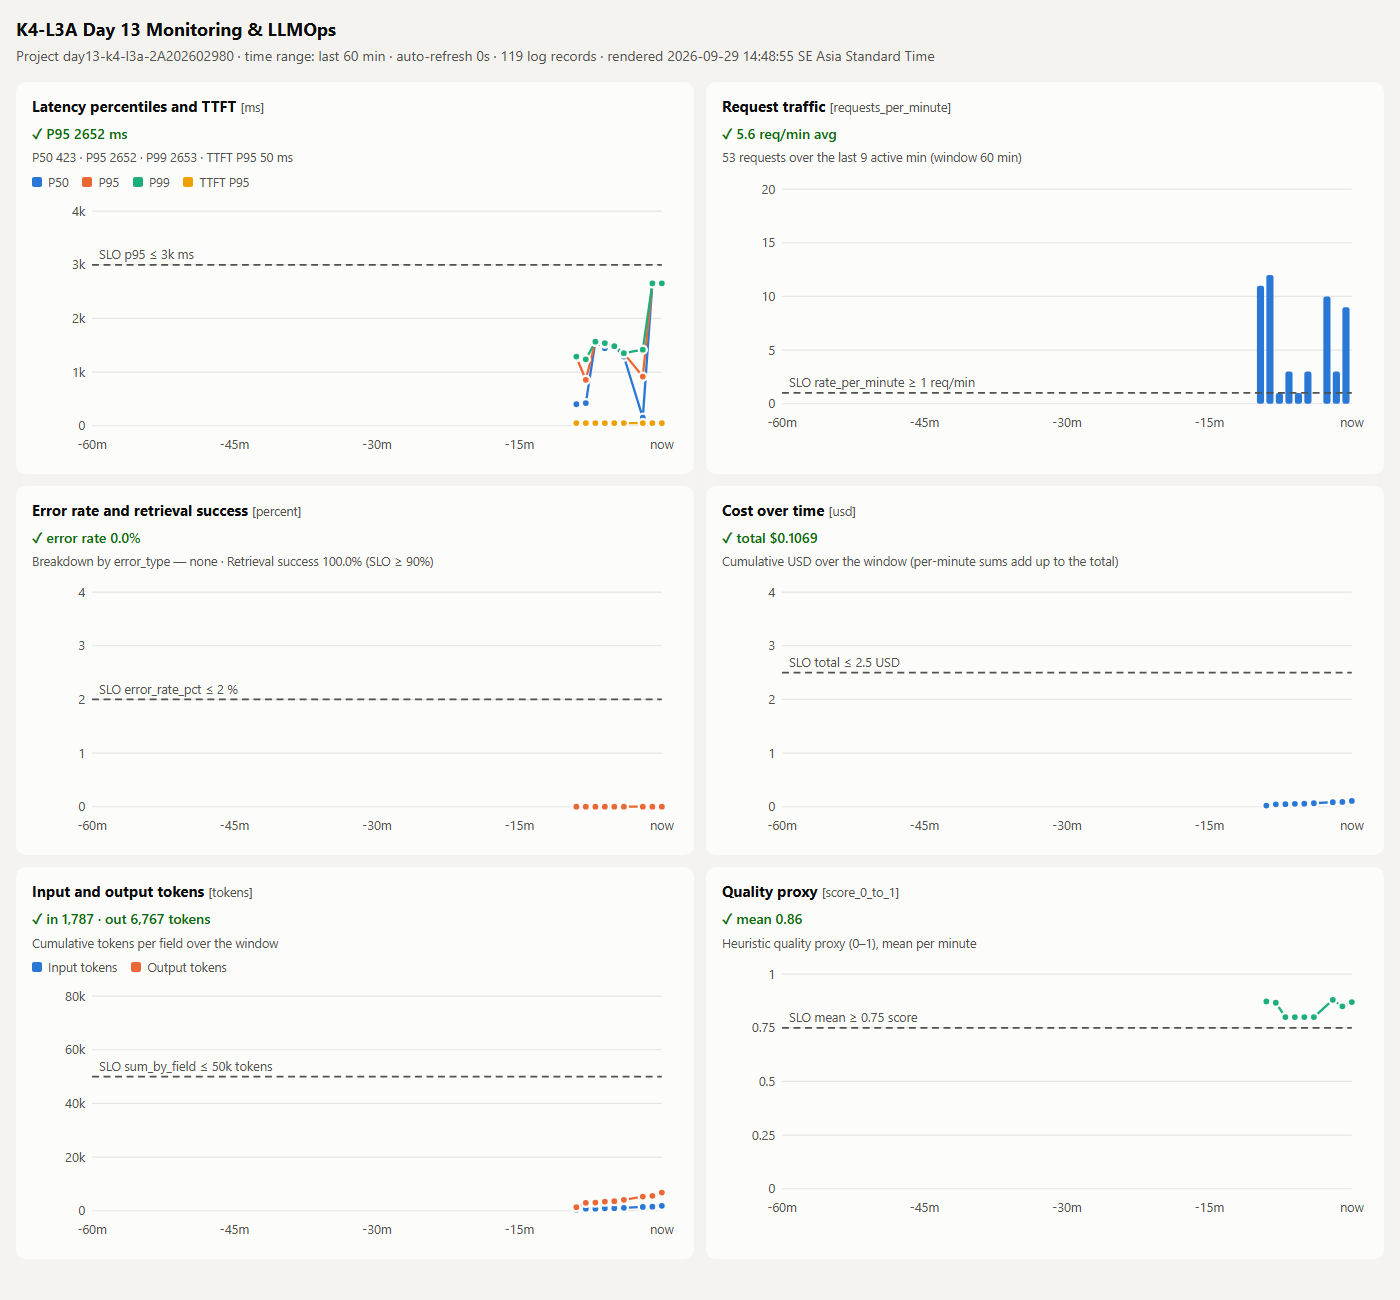
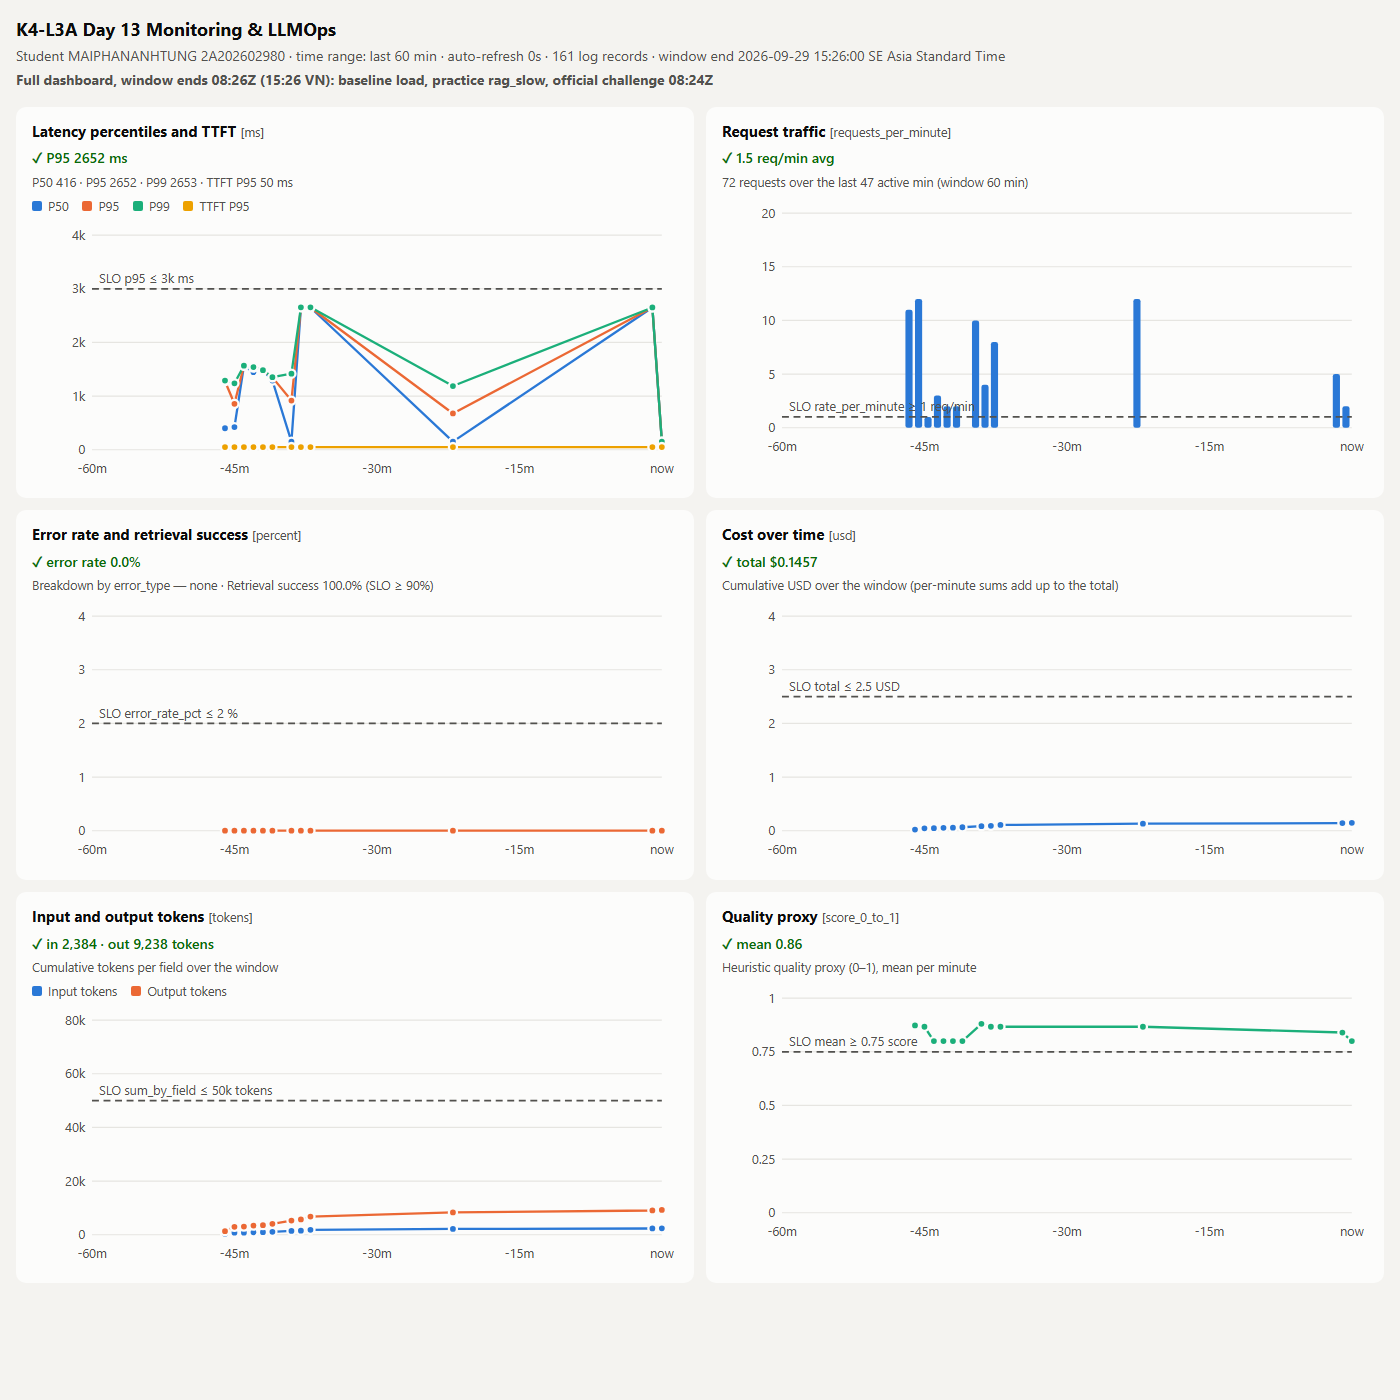
docs: re-render dashboard evidence 11 and 12 from real logs
Add --at/--only/--note/--mark-ms to scripts/dashboard.py so the 60-minute
window can be pinned to the challenge run (08:24Z).

diff --git a/scripts/dashboard.py b/scripts/dashboard.py
@@ -85,9 +85,9 @@ def fmt(value: float) -> str:
     return f"{value:.2f}".rstrip("0").rstrip(".")
 
 
-def line_chart(series, threshold, minutes: int, unit: str, y_min: float = 0.0) -> str:
+def line_chart(series, threshold, minutes: int, unit: str, y_min: float = 0.0, extra=None) -> str:
     """series: [(name, color, [(minutes_ago, value)])]; threshold: (value, label)."""
-    all_vals = [v for _, _, pts in series for _, v in pts] + [threshold[0]]
+    all_vals = [v for _, _, pts in series for _, v in pts] + [threshold[0]] + ([extra[0]] if extra else [])
     y_max = 4 * nice_max(max(all_vals) * 1.1 / 4)
     pw, ph = W - ML - MR, H - MT - MB
 
@@ -109,6 +109,10 @@ def line_chart(series, threshold, minutes: int, unit: str, y_min: float = 0.0) -
     ty = py(threshold[0])
     parts.append(f'<line class="thr" x1="{ML}" x2="{W - MR}" y1="{ty:.1f}" y2="{ty:.1f}"/>')
     parts.append(f'<text class="thr-label" x="{ML + 6}" y="{ty - 5:.1f}" text-anchor="start">{html.escape(threshold[1])}</text>')
+    if extra:  # optional annotation line, e.g. the challenge threshold (not part of the contract)
+        ey = py(extra[0])
+        parts.append(f'<line class="thr extra" x1="{ML}" x2="{W - MR}" y1="{ey:.1f}" y2="{ey:.1f}"/>')
+        parts.append(f'<text class="thr-label extra" x="{ML + 6}" y="{ey - 5:.1f}" text-anchor="start">{html.escape(extra[1])}</text>')
     for name, color, pts in series:
         pts = sorted(pts, key=lambda p: -p[0])  # oldest first
         if not pts:
@@ -175,7 +179,7 @@ def thr_label(threshold: dict, unit: str) -> str:
 
 
 # ---------------------------------------------------------------- panels
-def build_panels(cfg: dict, records: list[dict]) -> list[str]:
+def build_panels(cfg: dict, records: list[dict], only=None, mark_ms=None) -> list[str]:
     minutes = cfg["time_range_minutes"]
     panels = {p["id"]: p for p in cfg["panels"]}
     buckets = by_minute(records, minutes)
@@ -199,7 +203,10 @@ def build_panels(cfg: dict, records: list[dict]) -> list[str]:
         f'{status(passes(p95, p["threshold"]) if lat else None, f"P95 {p95:.0f} ms")}'
         f'<div class="kv">P50 {percentile(lat, 50):.0f} · P95 {p95:.0f} · P99 {percentile(lat, 99):.0f} · TTFT P95 {percentile(ttft, 95):.0f} ms</div>'
         + legend([(n, c) for n, c, _ in series])
-        + line_chart(series, (p["threshold"]["value"], thr_label(p["threshold"], "ms")), minutes, "ms")
+        + line_chart(
+            series, (p["threshold"]["value"], thr_label(p["threshold"], "ms")), minutes, "ms",
+            extra=(mark_ms, f"Challenge threshold {mark_ms} ms") if mark_ms else None,
+        )
     )
 
     # 2. traffic
@@ -283,6 +290,8 @@ def build_panels(cfg: dict, records: list[dict]) -> list[str]:
 
     cards = []
     for pid in ("latency", "traffic", "errors", "cost", "tokens", "quality"):
+        if only and pid not in only:
+            continue
         panel = panels[pid]
         cards.append(
             f'<section class="card"><h2>{html.escape(panel["title"])} <small>[{html.escape(panel["unit"])}]</small></h2>{out[pid]}</section>'
@@ -306,15 +315,15 @@ h2{font-size:15px;margin:0 0 6px}h2 small{color:var(--ink2);font-weight:400}
 .sw{display:inline-block;width:10px;height:10px;border-radius:2px;margin-right:6px}
 svg{width:100%;height:auto;display:block}.grid{stroke:var(--grid);stroke-width:1}
 .tick{fill:var(--ink2);font-size:11px}.thr{stroke:var(--ink2);stroke-width:1.5;stroke-dasharray:6 4}
-.thr-label{fill:var(--ink2);font-size:11px}.pt{stroke:var(--surface);stroke-width:2}
+.thr-label{fill:var(--ink2);font-size:11px}.thr.extra{stroke:var(--s2)}.thr-label.extra{fill:var(--ink);font-weight:600}.pt{stroke:var(--surface);stroke-width:2}
 """
 
 
-def render(refresh: int | None = 30) -> str:
+def render(refresh: int | None = 30, at: datetime | None = None, only=None, note: str | None = None, mark_ms: int | None = None) -> str:
     cfg = yaml.safe_load(CONFIG_PATH.read_text(encoding="utf-8"))["dashboard"]
-    now = datetime.now(timezone.utc)
+    now = at or datetime.now(timezone.utc)
     records = load_records(now, cfg["time_range_minutes"])
-    cards = build_panels(cfg, records)
+    cards = build_panels(cfg, records, only=only, mark_ms=mark_ms)
     meta = f'<meta http-equiv="refresh" content="{refresh}">' if refresh else ""
     stamp = now.astimezone().strftime("%Y-%m-%d %H:%M:%S %Z")
     return (
@@ -322,8 +331,8 @@ def render(refresh: int | None = 30) -> str:
         '<meta name="viewport" content="width=device-width,initial-scale=1">'
         f'<title>{html.escape(cfg["title"])}</title><style>{CSS}</style></head><body>'
         f'<header><h1>{html.escape(cfg["title"])}</h1>'
-        f'<p>Project day13-k4-l3a-2A202602980 · time range: last {cfg["time_range_minutes"]} min · '
-        f'auto-refresh {refresh or 0}s · {len(records)} log records · rendered {stamp}</p></header>'
+        f'<p>Student MAIPHANANHTUNG 2A202602980 · time range: last {cfg["time_range_minutes"]} min · '
+        f'auto-refresh {refresh or 0}s · {len(records)} log records · {"window end" if at else "rendered"} {stamp}</p>{f"<p><strong>{html.escape(note)}</strong></p>" if note else ""}</header>'
         f'<main>{"".join(cards)}</main></body></html>'
     )
 
@@ -345,9 +354,15 @@ def main() -> int:
     parser = argparse.ArgumentParser(description=__doc__.splitlines()[0])
     parser.add_argument("--html", type=Path, help="write a static snapshot instead of serving")
     parser.add_argument("--port", type=int, default=8501)
+    parser.add_argument("--at", help="window end as ISO time, e.g. 2026-09-29T08:30:00Z (default: now)")
+    parser.add_argument("--only", help="comma-separated panel ids to render, e.g. latency,traffic")
+    parser.add_argument("--note", help="caption shown under the header (annotation only)")
+    parser.add_argument("--mark-ms", type=int, help="draw an extra latency line, e.g. the challenge threshold")
     args = parser.parse_args()
     if args.html:
-        args.html.write_text(render(refresh=None), encoding="utf-8")
+        at = datetime.fromisoformat(args.at.replace("Z", "+00:00")) if args.at else None
+        only = set(args.only.split(",")) if args.only else None
+        args.html.write_text(render(None, at, only, args.note, args.mark_ms), encoding="utf-8")
         print(f"wrote {args.html}")
         return 0
     print(f"Dashboard on http://127.0.0.1:{args.port} (Ctrl+C to stop)")

diff --git a/submission/REPORT.md b/submission/REPORT.md
@@ -63,7 +63,7 @@
 
 ## 6. Dashboard, SLO và alerts
 
-- **Dashboard và sáu panel:** `python scripts/dashboard.py` (stdlib + PyYAML) đọc `data/logs.jsonl` và `config/dashboard.yaml`, dựng đúng 6 panel, đơn vị, 60 phút, refresh 30 s, đường threshold. Ảnh: `evidence/11-dashboard-overview.png`.
+- **Dashboard và sáu panel:** `python scripts/dashboard.py` (stdlib + PyYAML) đọc `data/logs.jsonl` và `config/dashboard.yaml`, dựng đúng 6 panel, đơn vị, 60 phút, refresh 30 s, đường threshold. Ảnh: `evidence/11-dashboard-overview.png` (render từ `data/logs.jsonl` bằng `--at 2026-09-29T08:26:00Z` vì cửa sổ 60 phút tính từ thời điểm đó; ảnh `12-incident-metric.png` dùng `--only latency,traffic --mark-ms 2000`, đường cam "Challenge threshold 2000 ms" và dòng ghi chú là chú thích thêm, không thuộc contract).
 - **SLO và lý do chọn:** 99.5% request `response_sent` với latency ≤ 2000 ms trong 28 ngày; 2 s ≈ 1.3× baseline P95 (~1.5 s) và bằng `latency_threshold_ms` của challenge — xem `config/slo.yaml`. Bản nháp đầu dùng 3 s nhưng không bắt được sự cố 2.65 s nên đã siết lại. Đường threshold trên dashboard giữ 3000 ms theo contract `config/dashboard.yaml` (không được sửa), vì vậy panel latency vẫn hiện ✓ dù SLO 2 s bị vi phạm.
 - **Cách tính error budget:** 100% − 99.5% = 0.5% request (5 request xấu/ngày ở 1.000 request/ngày); request lỗi cũng là bad event.
 - **Ba alert và runbook tương ứng:** `high_latency_p95` (P2), `high_error_rate` (P1), `cost_per_request_spike` (P3) trong `config/alert_rules.yaml`; runbook `docs/alerts.md`.
